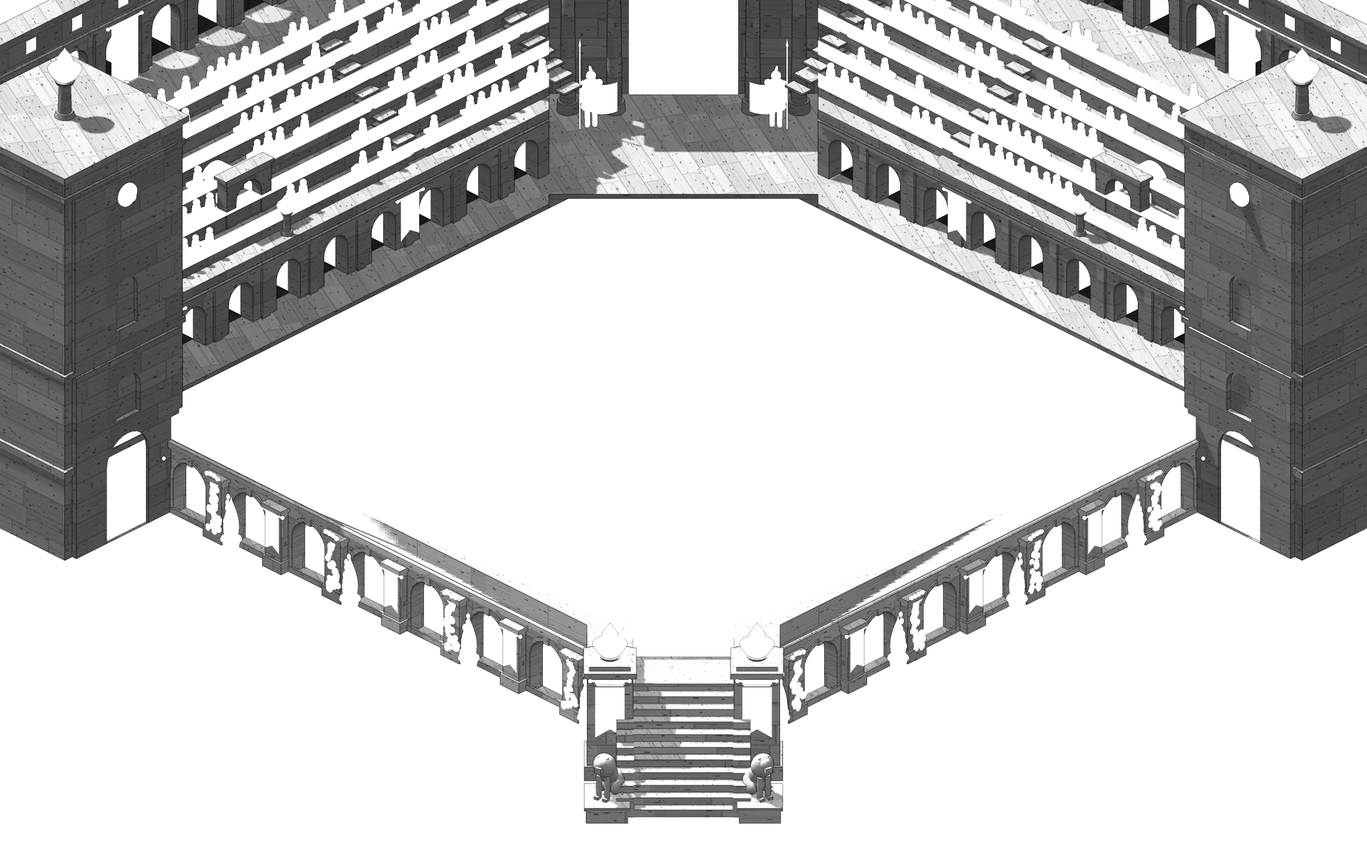
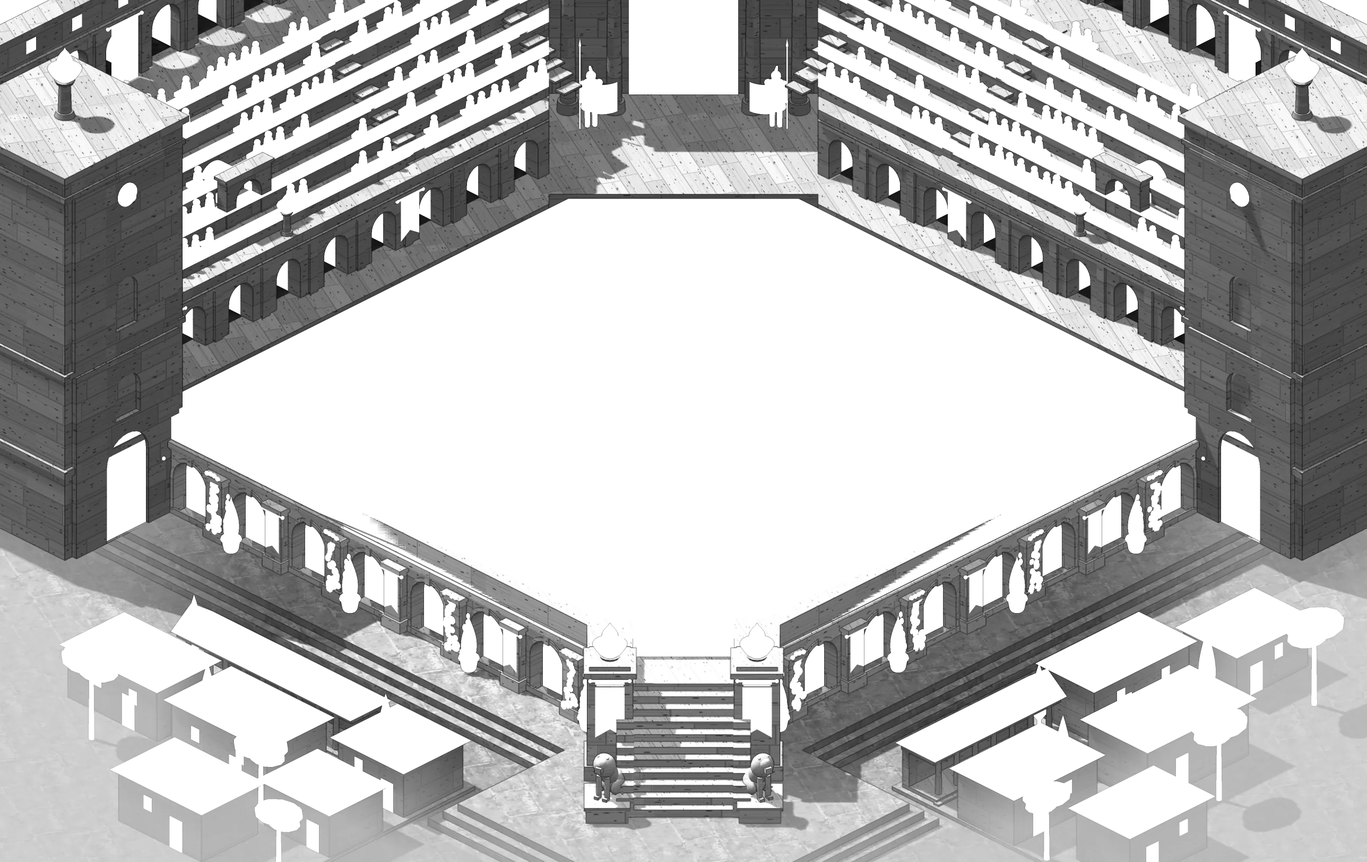
v1.11 Amphitheatre pass 8 MOCK-UP: bottom corners (a) city / (c) ground behind make.js --variant, 2a stair pools; assets = (a) [skip ci]
Claude-Session: https://claude.ai/code/session_01BLtNGuDrMd265uhsDUPs5S

Changed region(s): [[0.0, 0.585, 1.0, 1.0]]

diff --git a/tools/art/amph111/amph111.html b/tools/art/amph111/amph111.html
@@ -42,7 +42,27 @@
     const base = '../../../';
     const [stone, wood, brick, paving] = await Promise.all([base + 'assets/stone100_6_roma.webp', base + 'assets/stands_wood81.webp', '../arena110/vault_brick.webp', '../arena110/ground_paving.webp'].map(load));
     const tx = (cv, rep) => { const t = new THREE.CanvasTexture(cv); t.wrapS = t.wrapT = THREE.RepeatWrapping; t.colorSpace = THREE.SRGBColorSpace; t.anisotropy = 4; return t; };
-    const TEX = { stone: tx(texCanvas(stone, 'lum', 0.8, 1.1)), bench: tx(texCanvas(stone, 'lum', 0.3, 1.15)), wood: tx(texCanvas(wood)), brick: tx(texCanvas(brick)), paving: tx(texCanvas(paving)), paveL: tx(texCanvas(paving, 'lum', 0.55, 0.97)), eagle: tx(eagleCanvas()) };
+    const roofC = document.createElement('canvas'); roofC.width = roofC.height = 128; { const g = roofC.getContext('2d'); g.fillStyle = '#a9a9a9'; g.fillRect(0, 0, 128, 128);
+      /* pass 8: terracotta tile courses (luminance; the roof colour is the material's) */
+      for (let r = 0; r < 8; r++) for (let c = 0; c < 8; c++) { const v = 150 + ((r * 37 + c * 61) % 7) * 9; g.fillStyle = `rgb(${v},${v},${v})`; g.fillRect(c * 16 + (r % 2) * 8, r * 16, 14, 13); g.fillStyle = 'rgba(0,0,0,.18)'; g.fillRect(c * 16 + (r % 2) * 8, r * 16 + 12, 14, 3); } }
+    const TEX = { roof: null, stone: tx(texCanvas(stone, 'lum', 0.8, 1.1)), bench: tx(texCanvas(stone, 'lum', 0.3, 1.15)), wood: tx(texCanvas(wood)), brick: tx(texCanvas(brick)), paving: tx(texCanvas(paving)), paveL: tx(texCanvas(paving, 'lum', 0.55, 0.97)), eagle: tx(eagleCanvas()) };
+    TEX.roof = tx(roofC); TEX.paveS = tx(texCanvas(paving, 'lum', 0.32, 1.0));   /* pass 8: a calmer paving (lower contrast) */
+    /* PASS 8 HAZE (scene.js 'city' / 'ground'): the ground + city materials fade toward a haze colour with the distance out from the near
+       façade (world max(X, Z) − E1) and toward the canvas' left/right edges (|X − Z| / 2 in TW). One function for the colour (here) and the
+       ink (the normal pass writes 1 − haze into alpha; the post pass scales the ink by it). Per layer: the stone-layer haze is a luminance
+       (tinted per arena in the game), the fixed layer's a colour; the glow layer fades to black. */
+    const V8 = cfg.variant || 'p7';
+    const HZ = V8 === 'ground' ? { a: 0.95, h0: 1.0, h1: 7.0, b: 0.8, c: 0.3, m: 0.95, ls: 0.24, fx: '#3a2c20' } : { a: 0.5, h0: 2.5, h1: 9.0, b: 0.5, c: 0.5, m: 0.82, ls: 0.8, fx: '#c0b7a6' };
+    const HZF = `float hz8(vec3 w){ float dz = max(w.x, w.z) - 15.45; float sx = abs(w.x - w.z) * 0.5;   /* sx, and below sy: the point's place on the canvas in TW from (OX, OY) */
+      return clamp(${HZ.a.toFixed(3)} * smoothstep(${HZ.h0.toFixed(2)}, ${HZ.h1.toFixed(2)}, dz) + ${HZ.b.toFixed(3)} * smoothstep(6.4, 10.0, sx) + ${HZ.c.toFixed(3)} * smoothstep(8.4, 11.2, (w.x + w.z) * 0.25 - 0.612 * w.y), 0.0, ${HZ.m.toFixed(3)}); }`;
+    const HU = { stone: { value: new THREE.Color(HZ.ls, HZ.ls, HZ.ls) }, fixed: { value: new THREE.Color(HZ.fx) } };
+    const HZC = { stone: new THREE.Color(HZ.ls, HZ.ls, HZ.ls), fixed: new THREE.Color(HZ.fx) };
+    const hz = (m, layer) => { const u = HU[m.layer] || HU.fixed; m.mat.side = THREE.DoubleSide; m.mat.onBeforeCompile = sh => { sh.uniforms.hzCol = u;
+        sh.vertexShader = 'varying vec3 vW8;\n' + sh.vertexShader.replace('#include <project_vertex>', '#include <project_vertex>\n vW8 = (modelMatrix * vec4(transformed, 1.0)).xyz;');
+        sh.fragmentShader = 'varying vec3 vW8; uniform vec3 hzCol;\n' + HZF + '\n' + sh.fragmentShader.replace('#include <dithering_fragment>', 'gl_FragColor.rgb = mix(gl_FragColor.rgb, hzCol, hz8(vW8));\n#include <dithering_fragment>'); };
+      const ck = 'hz8_' + (hz.n = (hz.n || 0) + 1); m.mat.customProgramCacheKey = () => ck;   /* one program per material: onBeforeCompile (and its uniform) runs for each */ m.hz = 1; return m; };
+    const HNRM = new THREE.ShaderMaterial({ side: THREE.DoubleSide, vertexShader: 'varying vec3 vN; varying vec3 vW8; void main(){ vN = normalize(normalMatrix * normal); vW8 = (modelMatrix * vec4(position, 1.0)).xyz; gl_Position = projectionMatrix * modelViewMatrix * vec4(position, 1.0); }',
+      fragmentShader: 'varying vec3 vN; varying vec3 vW8;\n' + HZF + '\nvoid main(){ vec3 n = normalize(vN) * (gl_FrontFacing ? 1.0 : -1.0); gl_FragColor = vec4(n * 0.5 + 0.5, 1.0 - hz8(vW8)); }' });
     const S = THREE.DoubleSide;
     const std = (o, layer) => ({ mat: new THREE.MeshStandardMaterial(Object.assign({ roughness: 0.92, metalness: 0 }, o)), layer: layer || 'fixed' });
     const materials = () => ({
@@ -55,15 +75,24 @@
       brick: std({ map: TEX.brick, color: '#8c7a70', side: S }), dark: std({ color: '#3a2a1e', side: S, roughness: 1 }), ground: std({ map: TEX.paveL, color: '#9a938a' }, 'stone'), pave: std({ map: TEX.paveL, color: '#ffffff' }, 'stone'),
       crowd: std({ color: '#ffffff', roughness: 0.95 }), leaf: std({ color: '#3d5a2c' }), leafLt: std({ color: '#62813a' }), terra: std({ color: '#a65a3a' }), plaster: std({ color: '#ffffff' }, 'stone'),
       flame: { mat: new THREE.MeshBasicMaterial({ color: '#ff7a22' }), layer: 'fire' }, flameCore: { mat: new THREE.MeshBasicMaterial({ color: '#ffd977' }), layer: 'fire' },
-      hold: { mat: new THREE.MeshBasicMaterial({ color: '#000000' }), layer: 'hold' }
+      hold: { mat: new THREE.MeshBasicMaterial({ color: '#000000' }), layer: 'hold' },
+      /* pass 8: the ground + the city (hazed); 'win' = the lit windows, only in the glow layer */
+      gPave: hz(std({ map: TEX.paveS, color: V8 === 'ground' ? new THREE.Color(0.86, 0.86, 0.86) : new THREE.Color(1.12, 1.12, 1.12) }, 'stone')),
+      gStreet: hz(std({ map: TEX.paveS, color: V8 === 'ground' ? new THREE.Color(0.7, 0.7, 0.7) : new THREE.Color(0.95, 0.95, 0.95) }, 'stone')),
+      cWall: hz(std({ map: TEX.stone, color: new THREE.Color(0.92, 0.92, 0.92) }, 'stone')),
+      cRoof: hz(std({ map: TEX.roof, color: '#a07462' })), cDark: hz(std({ color: '#5a4636', roughness: 1 })), cTrunk: hz(std({ color: '#6a5442' })),
+      cLeaf: hz(std({ color: '#3f5038' })), cLeafLt: hz(std({ color: '#566a45' })),
+      win: { mat: new THREE.MeshBasicMaterial({ color: '#ffb466' }), layer: 'night' }
     });
-    const built = window.AMPH111_BUILD(THREE, TEX, { materials });
+    let MATS = null;
+    const built = window.AMPH111_BUILD(THREE, TEX, { materials: (...a) => (MATS = materials(...a)), variant: V8 });
     const scene = built.scene;
     const renderer = new THREE.WebGLRenderer({ antialias: false, alpha: true, premultipliedAlpha: false, preserveDrawingBuffer: true });
     renderer.shadowMap.enabled = true; renderer.shadowMap.type = THREE.PCFSoftShadowMap; renderer.outputColorSpace = THREE.SRGBColorSpace;
     renderer.setClearColor(0x000000, 0);
     document.body.appendChild(renderer.domElement); renderer.domElement.style.width = '50%';
-    R = { renderer, scene, meta: built.meta, TEX };
+    scene.traverse(o => { if (o.isMesh && MATS[o.name] && MATS[o.name].hz) o.userData.nmat = HNRM; });
+    R = { renderer, scene, meta: built.meta, TEX, HU, HZC };
     return R;
   }
   /* ---------- lights ---------- */
@@ -81,7 +110,9 @@
     } else {
       /* night = only the fires (the game's grade darkens the base; this layer is ADDED after it) */
       for (const b of R.meta.lamps || []) { const p = new THREE.PointLight('#ff9a48', (L.fire || 9) * 0.45, 2.8, 1.4); p.position.set(b.x, b.y, b.z); R.scene.add(p); }
-      for (const f of R.meta.fires) { const p = new THREE.PointLight(L.fireCol || '#ff9a48', (L.fire || 9) * f.s, 7.5 * f.s, 1.6); p.position.set(f.x, f.y, f.z); p.castShadow = !!f.shadow; if (f.shadow) { p.shadow.mapSize.set(1024, 1024); p.shadow.bias = -0.002; p.shadow.camera.near = 0.05; } R.scene.add(p); }
+      for (const q of R.meta.pools || []) { const sp = new THREE.SpotLight(L.poolCol || '#ffa050', L.pool || 5.0, 3.4, 0.4, 1, 2); sp.position.set(q.x, q.y, q.z);
+        const tg = new THREE.Object3D(); tg.position.set(q.tx, q.ty, q.tz); tg.userData.isLightTarget = 1; R.scene.add(tg); sp.target = tg; R.scene.add(sp); }
+      for (const f of R.meta.fires) { if (!f.s) continue; const p = new THREE.PointLight(L.fireCol || '#ff9a48', (L.fire || 9) * f.s, 7.5 * f.s, 1.6); p.position.set(f.x, f.y, f.z); p.castShadow = !!f.shadow; if (f.shadow) { p.shadow.mapSize.set(1024, 1024); p.shadow.bias = -0.002; p.shadow.camera.near = 0.05; } R.scene.add(p); }
       R.scene.add(new THREE.AmbientLight('#000000', 0));
     }
   }
@@ -95,7 +126,7 @@
         e = max(e, smoothstep(nTh, nTh + 0.35, 1.0 - dot(n0, Nn(o))) * 0.7); }
       vec3 col = c.rgb;
       if (post > 0.0) { float l = dot(col, vec3(0.299,0.587,0.114)); float q = (floor(l * 6.0 + 0.5) / 6.0); col = mix(col, col * (q / max(l, 0.02)), post); }
-      col *= 1.0 - inkA * e;
+      col *= 1.0 - inkA * e * texture2D(tNrm, vUv).a;   /* pass 8: alpha = 1 − haze (1 everywhere else) */
       gl_FragColor = vec4(col, c.a); }`;
   async function render(cfg) {
     const R = await setup(cfg);
@@ -110,7 +141,7 @@
     /* normals + depth of the whole scene (ink) */
     const rtN = new THREE.WebGLRenderTarget(W, H, { depthTexture: new THREE.DepthTexture(W, H, THREE.FloatType) });
     const nm = new THREE.MeshNormalMaterial({ side: THREE.DoubleSide });
-    for (const m of meshes) m.material = nm;
+    for (const m of meshes) { m.material = m.userData.nmat || nm; m.visible = m.userData.layer !== 'night'; }
     r.setRenderTarget(rtN); r.setClearColor(0x808080, 1); r.clear(); r.render(R.scene, cam);
     const HOLD = new THREE.MeshBasicMaterial({ colorWrite: false });
     const BLACK = new THREE.MeshBasicMaterial({ color: 0 });
@@ -120,8 +151,9 @@
     const quad = new THREE.Mesh(new THREE.PlaneGeometry(2, 2), post); const qs = new THREE.Scene(); qs.add(quad); const qc = new THREE.Camera();
     const out = {};
     for (const layer of cfg.layers) {
+      R.HU.stone.value.copy(layer === 'glow' ? new THREE.Color(0, 0, 0) : R.HZC.stone); R.HU.fixed.value.copy(layer === 'glow' ? new THREE.Color(0, 0, 0) : R.HZC.fixed);
       for (const m of meshes) {
-        const L = m.userData.layer;
+        const L = m.userData.layer; m.visible = L !== 'night' || layer === 'glow';
         if (layer === 'front') m.material = m.userData.front ? (m.userData.white = m.userData.white || new THREE.MeshBasicMaterial({ color: 0xffffff, map: m.userData.mat.alphaTest ? m.userData.mat.map : null, alphaTest: m.userData.mat.alphaTest || 0, side: m.userData.mat.side })) : HOLD;
         else if (layer === 'glow') m.material = L === 'hold' ? BLACK : m.userData.mat;
         else if (layer === 'all') m.material = L === 'hold' ? HOLD : m.userData.mat;
@@ -135,7 +167,7 @@
       r.setRenderTarget(null); r.setClearColor(0x000000, 0); r.clear(); r.render(qs, qc);
       out[layer] = r.domElement.toDataURL('image/png');
     }
-    for (const m of meshes) m.material = m.userData.mat;
+    for (const m of meshes) { m.material = m.userData.mat; m.visible = true; }
     rtN.dispose(); rtC.dispose();
     return { out, W, H, meta: R.meta, tris: r.info.render.triangles };
   }

diff --git a/tools/art/amph111/scene.js b/tools/art/amph111/scene.js
@@ -19,6 +19,7 @@
    ===================================================================== */
 window.AMPH111_BUILD = function (THREE, TEX, opt) {
   opt = opt || {};
+  const VAR = opt.variant || 'p7';                           /* pass 8 mock-up: 'p7' (approved pass 7, reproducible) | 'city' (his 1a) | 'ground' (his fallback c) */
   const E0 = -2.45, E1 = 15.45, GX = 0.47, M = 6.5;          /* footprint (3-tier), the grand arenas' extra, the board's middle */
   const e0 = E0 - GX, e1 = E1 + GX, LH = (e1 - e0) / 2;      /* the grand outline: everything built outside it */
   const GROUND = -2.6;                                       /* the ground around the building (near side cut-away) */
@@ -307,6 +308,84 @@ window.AMPH111_BUILD = function (THREE, TEX, opt) {
     meta.towers = meta.towers || []; meta.towers.push({ c, top: H + 0.16, z: z0 + R * 0.4 });
   }
 
+  /* ================= PASS 8 (his 1a / fallback c): GROUND + A ROMAN CITY in the two bottom corners and below the stair ONLY (3a: the far
+     side stays as is). Paving at the façade's foot (a terrace, a wider plaza under the stair for the lions), three steps down to the street,
+     then (variant 'city') a sidewalk, a low portico, a few houses with terracotta hip roofs, cypresses and umbrella pines. Everything
+     here uses the HAZED materials (amph111.html hz8): it fades into a soft haze with the distance from the façade and toward the canvas
+     edges, and its ink lines fade with it, so it stays low contrast and the eye stays on the sand (VISUAL POLISH RULE). The few lit
+     windows are 'night' meshes: drawn only into the glow layer. ================= */
+  if (VAR !== 'p7') {
+    const a = E1 - 3, far = -40, TR = 1.4, CP = E1 - 2.6, CQ = E1 + 5.0, YS = GROUND - 0.6;   /* terrace depth; the plaza square under the stair */
+    const Lp = o => [[far, a], [a, a], [a, far], [E1 + TR + o, far], [E1 + TR + o, CP - o], [CQ + o, CP - o], [CQ + o, CQ + o], [CP - o, CQ + o], [CP - o, E1 + TR + o], [far, E1 + TR + o]];
+    prism(null, 'gPave', Lp(0), GROUND - 0.25, GROUND);
+    for (let k = 1; k <= 3; k++) prism(null, 'gPave', Lp(k * 0.25), GROUND - 0.25 - k * 0.2, GROUND - k * 0.2);
+    prism(null, 'gStreet', [[far, a], [a, a], [a, far], [70, far], [70, 70], [far, 70]], YS - 0.3, YS);
+    meta.ground = { TR, CP, CQ, YS };
+    if (VAR === 'city') {
+      /* in a near side's frame: x toward the bottom corner (mirrored on nearR), z outward (the façade is z −0.47), y up */
+      const bx = (F, s, key, x0, x1, y0, y1, z0, z1) => box(F, key, Math.min(s * x0, s * x1), Math.max(s * x0, s * x1), y0, y1, z0, z1);
+      const hip = (F, s, x0, x1, z0, z1, y, h) => { const o = 0.14, w = x1 - x0 + 2 * o, d = z1 - z0 + 2 * o, g = new THREE.ConeGeometry(Math.SQRT1_2, 1, 4, 1);
+        g.rotateY(Math.PI / 4); g.translate(0, 0.5, 0); put(g, 'cRoof', T(F, s * (x0 + x1) / 2, y, (z0 + z1) / 2, 0, w, h, d)); };
+      const gable = (F, s, x0, x1, z0, z1, y, h) => { const o = 0.12, g = new THREE.CylinderGeometry(1, 1, 1, 3, 1); g.rotateZ(Math.PI / 2); g.rotateX(-Math.PI / 2); g.translate(0, 0.5, 0);
+        put(g, 'cRoof', T(F, s * (x0 + x1) / 2, y, (z0 + z1) / 2, 0, x1 - x0 + 2 * o, h / 1.5, (z1 - z0 + 2 * o) / 2 / 0.866)); };
+      const cypress = (F, s, x, z, y, k) => { const H = 2.3 * k, prof = Array.from({ length: 12 }, (_, i) => { const t = i / 11; return new THREE.Vector2(i === 0 ? 0.03 : 0.27 * k * Math.pow(Math.sin(Math.PI * Math.min(1, 0.1 + t * 1.25)), 0.7) * (1 - 0.82 * t), H * t); });
+        put(new THREE.LatheGeometry(prof, 10), 'cLeaf', T(F, s * x, y + 0.15, z)); cyl(F, 'cTrunk', s * x, y, y + 0.2, z, 0.05, 0.05, 6); };
+      const pine = (F, s, x, z, y, k) => { const H = 2.2 * k; cyl(F, 'cTrunk', s * x, y, y + H, z, 0.07, 0.05, 7);
+        for (const [dx, dz, dy, r, key] of [[0, 0, 0, 0.8, 'cLeaf'], [0.42, 0.18, -0.1, 0.52, 'cLeaf'], [-0.38, -0.14, -0.06, 0.54, 'cLeaf'], [0.06, 0.04, 0.1, 0.55, 'cLeafLt']])
+          put(new THREE.SphereGeometry(1, 12, 7), key, T(F, s * (x + dx * k), y + H + dy * k, z + dz * k, 0, r * k, r * 0.3 * k, r * 0.85 * k)); };
+      const WIN = [];
+      const house = (F, s, x0, x1, z0, z1, h, rh, wins) => {
+        bx(F, s, 'cWall', x0, x1, YS + 0.1, YS + 0.1 + h, z0, z1);
+        bx(F, s, 'cWall', x0 - 0.05, x1 + 0.05, YS + 0.1 + h - 0.08, YS + 0.1 + h, z0 - 0.05, z1 + 0.05);   /* a thin eaves band */
+        hip(F, s, x0, x1, z0, z1, YS + 0.1 + h, rh);
+        for (const [wx, lit] of wins || []) { const y0 = YS + 0.1 + h * 0.5, y1 = y0 + 0.36;
+          bx(F, s, 'cDark', wx - 0.13, wx + 0.13, y0, y1, z1, z1 + 0.02);
+          if (lit) WIN.push([F, s, wx, y0, y1, z1]); }
+        /* a door on the outward face */
+        bx(F, s, 'cDark', (x0 + x1) / 2 + 0.35, (x0 + x1) / 2 + 0.75, YS + 0.1, YS + 0.1 + Math.min(0.9, h * 0.6), z1, z1 + 0.02);
+      };
+      const portico = (F, s, x0, x1, z0, z1, h) => {
+        bx(F, s, 'cWall', x0, x1, YS + 0.1, YS + 0.1 + h, z0, z0 + 0.22);                                 /* the back wall */
+        bx(F, s, 'cWall', x0, x1, YS + 0.1, YS + 0.2, z0, z1);                                             /* its floor (two steps) */
+        bx(F, s, 'cWall', x0 - 0.06, x1 + 0.06, YS + 0.1, YS + 0.15, z1 - 0.05, z1 + 0.12);
+        for (let x = x0 + 0.2; x <= x1 - 0.15; x += 0.62) cyl(F, 'cWall', s * x, YS + 0.2, YS + 0.1 + h - 0.12, z1 - 0.22, 0.08, 0.065, 10);
+        bx(F, s, 'cWall', x0 - 0.04, x1 + 0.04, YS + 0.1 + h - 0.14, YS + 0.1 + h + 0.02, z0, z1 - 0.06);  /* architrave */
+        gable(F, s, x0, x1, z0, z1 - 0.06, YS + 0.1 + h + 0.02, 0.5);
+      };
+      /* the two corners: nearL (s = 1) and nearR (s = −1, mirrored, a different arrangement). Only a small triangle of each corner is on a
+         canvas (±7.6 TW wide at 1440, its bottom 10.65 TW below OY tall / 8.6 short): x − z ≥ −5.8 and x + z ≤ 12.3 at street level, and
+         the plaza under the stair starts at x 5.6 — so the few buildings sit right by the plaza and the street; tops of the nearer ones
+         rise into the short framing too. */
+      for (const [side, s] of [['nearL', 1], ['nearR', -1]]) {
+        const F = SIDES[side];
+        /* the sidewalk the blocks stand on (a kerb toward the street) */
+        bx(F, s, 'gPave', -18, 5.45, YS - 0.2, YS + 0.1, 3.05, 16);
+        if (s > 0) {
+          portico(F, s, -3.2, 2.6, 3.25, 4.45, 1.25);
+          house(F, s, 3.1, 5.3, 3.3, 5.3, 1.3, 0.65, [[3.8, 1]]);
+          house(F, s, -0.6, 2.6, 5.2, 7.2, 1.6, 0.75, [[0.2, 0], [1.7, 1]]);
+          house(F, s, 3.2, 5.4, 6.1, 7.9, 1.25, 0.6, [[4.3, 0]]);
+          house(F, s, -4.4, -1.4, 5.0, 6.9, 1.45, 0.7, [[-3.4, 0], [-2.2, 0]]);
+          house(F, s, 0.6, 3.4, 8.3, 10.2, 1.4, 0.7, [[1.6, 0]]);
+          cypress(F, s, 2.85, 3.45, YS + 0.1, 0.9); cypress(F, s, -3.6, 3.45, YS + 0.1, 0.95); cypress(F, s, -1.0, 5.6, YS + 0.1, 1.0);
+          pine(F, s, 2.9, 7.7, YS + 0.1, 0.9); pine(F, s, -2.6, 7.9, YS + 0.1, 1.0); pine(F, s, 5.2, 9.4, YS + 0.1, 0.8);
+        } else {
+          house(F, s, -2.6, 0.6, 3.3, 5.0, 1.5, 0.7, [[-1.8, 0], [-0.3, 1]]);
+          portico(F, s, 1.1, 5.3, 3.25, 4.4, 1.2);
+          house(F, s, 2.6, 5.4, 5.2, 7.1, 1.35, 0.65, [[3.6, 1]]);
+          house(F, s, -1.6, 1.8, 6.0, 8.0, 1.55, 0.75, [[-0.7, 0]]);
+          house(F, s, -5.6, -3.2, 4.2, 6.0, 1.3, 0.65, [[-4.6, 0]]);
+          house(F, s, 2.2, 4.8, 8.6, 10.4, 1.4, 0.7, [[3.0, 1]]);
+          cypress(F, s, 0.95, 3.5, YS + 0.1, 0.95); cypress(F, s, 2.1, 5.45, YS + 0.1, 0.85); cypress(F, s, -2.9, 5.3, YS + 0.1, 1.0);
+          pine(F, s, 0.4, 9.0, YS + 0.1, 0.95); pine(F, s, 5.3, 8.1, YS + 0.1, 0.8); pine(F, s, -4.4, 7.4, YS + 0.1, 1.0);
+        }
+      }
+      /* the handful of warm windows (night only) */
+      for (const [F, s, wx, y0, y1, z1] of WIN) box(F, 'win', s * wx - 0.11, s * wx + 0.11, y0 + 0.03, y1 - 0.03, z1 + 0.025, z1 + 0.035);
+      meta.windows = WIN.length;
+    }
+  }
+
   /* ================= BUILD the merged meshes ================= */
   const MAT = opt.materials(THREE, TEX);
   for (const k of Object.keys(BK)) {
@@ -336,7 +415,11 @@ window.AMPH111_BUILD = function (THREE, TEX, opt) {
   for (const pl of meta.pillars) front(() => P.banner(DB, pl.x, 0.12, pl.front + 0.01, 0.7, 1.55));
   /* braziers (a few, at key points): the landing (2), the tower tops, the two vomitoria on the far sides */
   meta.fires = [];
-  for (const pl of meta.pillars) meta.fires.push(front(() => P.brazier(DB, pl.x, pl.top - 0.75 * 1.25, pl.z, 1.25, { gold: 1, core: 1.45, light: 0.75, lift: -0.6, dz: 1.0, shadow: 1 }), 1));   /* the stem sinks into the pillar: a wide bowl on its top */   /* pass 7 (his 2a): the two big braziers on the stair's pillars */
+  for (const pl of meta.pillars) meta.fires.push(front(() => P.brazier(DB, pl.x, pl.top - 0.75 * 1.25, pl.z, 1.25, { gold: 1, core: 1.45, light: VAR === 'p7' ? 0.75 : 0, lift: -0.6, dz: 1.0, shadow: 1 }), 1));
+  /* pass 8 (his 2a): instead of the pillar lights, two small warm pools on the stair's top steps (spot lights straight down, no shadow):
+     about a third of pass 7's light there, gone before the lions, nothing on the façade */
+  meta.pools = [];
+  if (VAR !== 'p7') for (const sx of [-1, 1]) { const p = V3(sx * 0.55, 1.1, -0.5).applyMatrix4(DB), t = V3(sx * 0.55, -0.8, -0.15).applyMatrix4(DB); meta.pools.push({ x: p.x, y: p.y, z: p.z, tx: t.x, ty: t.y, tz: t.z }); }   /* the stem sinks into the pillar: a wide bowl on its top */   /* pass 7 (his 2a): the two big braziers on the stair's pillars */
   for (const side of ['farL', 'farR']) { const s = side === 'farR' ? 1 : -1; meta.fires.push(P.brazier(SIDES[side], -s * UEND + s * (0.9 + 1.6 * 4), Y_POD + 0.28, V_POD + 0.06, 0.75)); }
   for (const t of meta.towers) meta.fires.push(P.brazier(DIAG[t.c], 0, t.top, t.z, 1.25));
   /* the crowd on the far rows (baked, static) */

diff --git a/tools/art/amph111/make.js b/tools/art/amph111/make.js
@@ -5,6 +5,8 @@
    the game's (OX, OY) and one tile = TW. Rendered at 2× (cfg ss) with no MSAA, then box-filtered down → every layer's alpha is its exact
    coverage, so the layers ADD back together ('lighter') without seams.
      node tools/art/amph111/make.js [--out DIR] [--tw 112] [--pass N] [--overview 1.6] [--assets]
+     --variant p7 | city | ground   (pass 8 mock-up: p7 = the approved pass 7, the default; city = his 1a ground + Roman city in the bottom
+       corners + the 2a stair pools; ground = his fallback c, paving fading into a dark haze, + the 2a pools)
    Writes DIR/<layer>.png (stone, bench, cloth — luminance, tinted per arena in the game — fixed, fire, glow (night, opaque black)) and
    DIR/meta.json (TW0, the frame in TW: xl xr yt yb, sizes). --assets also encodes assets/amph111_<layer>.webp + assets/amph111.json.
    The frame (in TW, around the game's OX/OY): xl = xr = 11.5, yt = 3.6, yb = 10.9 — the canvas never shows more (07-ui draw: OY = 2.7 TW,
@@ -32,7 +34,7 @@ const PORT = 20000 + Math.floor(Math.random() * 20000);
     for (const night of [false, true]) {
       const ls = LAYERS.filter(l => (l === 'glow') === night); if (!ls.length) continue;
       const r = await pg.evaluate(cfg => window.AMPH111.render(cfg).then(r => ({ out: r.out, W: r.W, H: r.H, meta: r.meta, tris: r.tris })),
-        Object.assign({ tw0: TW0, ss: SS, layers: ls, night, look: LOOK, overview: OVER || 0, inkA: +opt('ink', 0.55), post: +opt('post', 0) }, FR));
+        Object.assign({ tw0: TW0, ss: SS, layers: ls, night, look: LOOK, variant: opt('variant', 'p7'), overview: OVER || 0, inkA: +opt('ink', 0.55), post: +opt('post', 0) }, FR));
       for (const k of Object.keys(r.out)) { fs.writeFileSync(path.join(OUT, k + '_ss.png'), Buffer.from(r.out[k].split(',')[1], 'base64')); }
       Object.assign(res, { W: r.W, H: r.H, meta: r.meta, tris: r.tris });
     }

diff --git a/tools/art/amph111/props.js b/tools/art/amph111/props.js
@@ -122,7 +122,7 @@ window.AMPH111_PROPS = function (THREE, MAT, add, T, rnd) {
     const tongue = (h, r) => new THREE.LatheGeometry(Array.from({ length: 11 }, (_, i) => { const t = i / 10; return new THREE.Vector2(r * Math.pow(Math.sin(Math.PI * Math.min(1, t * 1.35)), 0.7) * Math.pow(1 - t, 0.55) + (t === 0 ? 0 : 0), h * t); }), 10);
     for (const [dx, dz, h, r, k, tz] of [[0, 0, 0.62, 0.2, 'flame', 0], [0.1, 0.04, 0.4, 0.12, 'flame', 0.25], [-0.1, -0.02, 0.44, 0.13, 'flame', -0.2], [0, 0.07, 0.36 * (o.core || 1), 0.12 * (o.core || 1), 'flameCore', 0]])
       add(tongue(h * s, r * s), k, M4(F, x + dx * s, fy - 0.03 * s, z + dz * s, 0, 1, 1, 1, 0, tz), 'fire');
-    const p = V3(x, fy + 0.22 * s + (o.lift || 0), z + (o.dz || 0)).applyMatrix4(F); return { x: p.x, y: p.y, z: p.z, s: s * (o.light || 1), shadow: !!o.shadow };
+    const p = V3(x, fy + 0.22 * s + (o.lift || 0), z + (o.dz || 0)).applyMatrix4(F); return { x: p.x, y: p.y, z: p.z, s: s * (o.light == null ? 1 : o.light), shadow: !!o.shadow };
   };
   /* ---------- the static crowd on the far rows ---------- */
   out.crowd = (rows, LH, UEND) => {

diff --git a/tools/plans/v111/AMPH.md b/tools/plans/v111/AMPH.md
@@ -128,6 +128,48 @@ below the board for the whole stair when the window is tall enough (phones / sho
 - Sizes: 7 files 416 KB (stone 212, fixed 77, glow 50, bench 49, cloth 13, fire 11, front 4.5) — less than pass 6 (448 KB) though the
   frame grew to 2576×1624: the ground plane is gone.
 
+## Pass 8 — MOCK-UP: filling the bottom corners (his note on pass 7 + picks 1a 2a 3a; decisions 2026-10-22 "corners + glow")
+His note: "the glow of the stair is strong; the bottom right and left corners are really bland … looks odd empty floating / seeing night
+sky". Picks: 1a ground + a Roman city ONLY in the two bottom corners and below the stair (3a: above the far stands unchanged), MOCK-UP
+FIRST, with his fallback (c) ground only (+ a raised-view version) to compare; 2a two small warm pools on the stair's top steps at ~1/3.
+Built behind a VARIANT switch: `make.js --variant p7|city|ground` (scene.js opt.variant; default p7 — re-baked and compared: byte-identical
+to the committed pass 7 files). Raised view = (c) with 419's framing kill switch in a tall window (today's 724 px canvas): render-only.
+Review page: scratchpad amph111-review.html, new top section "Pass 8 mock-up: filling the bottom corners".
+
+### 8a — first build
+- Built ('city'): a paved terrace at the façade's foot (2.0 deep, a plaza square under the stair big enough for the lions), three steps
+  down to a street plane that covers everything below the near façades out to the canvas edges (no night sky can show); a sidewalk;
+  per corner a low portico, 4–6 houses (terracotta hip roofs with tile courses drawn in code, plaster walls in the stone layer so they take
+  each arena's colour), cypresses and umbrella pines; a handful of lit windows (5 in 8c) as glow-only meshes. HAZE (amph111.html hz8): the city + ground
+  materials mix toward a haze colour with the distance out from the façade and toward the canvas sides, and the ink lines fade by the same
+  factor (the normal pass writes 1 − haze into alpha; the post pass scales the ink with it). 'ground': the paving + steps + street only,
+  the haze dark. 2a: the two pillar lights (pass 7c) are off; two spot lights straight down on the top steps, no shadow.
+- Bug: the pillar lights stayed on (props.js `o.light || 1` turned 0 into 1) → `o.light == null ? 1 : o.light`.
+- Compared with pass 7 and his picture: the corners are no longer empty, but most of the city sat OFF the canvas — a 1440 window shows only
+  ±7.6 TW (canvas 970 px), not the bake's ±11.5; the visible corner is a small triangle (x − z ≥ −5.8, x + z ≤ 12.3 at street level in the
+  near frame). The pools were 1/5 of pass 7 (top steps 12 vs 63 in the glow layer).
+
+### 8b — the city moved into view, calmer paving, haze toward the bottom
+- Changed: the buildings regrouped right by the plaza and the street (each corner: a portico on the sidewalk, 5 houses, 3 cypresses, 3 pines;
+  in short windows only the nearest roofs show); terrace 1.4 deep, steps 0.25; a calmer paving texture (luminance contrast ×0.32 instead of
+  0.55: the marbled veins read dark and busy); the haze also grows toward the canvas BOTTOM (sy 8.4 → 11.2 TW) so the city fades out at the
+  bottom edge; pools 5.0 aimed at the top steps → 21.5 vs pass 7's 63 (≈1/3), lower steps 0.2, lions 0, façade 0.
+- Compared: day reads as ground + a quiet town in a warm haze, lower contrast than the stands; night dark blue-grey with a handful of
+  windows; (c) a dark warm band round the stair. Left: umbrella pines read as khaki discs; on Syracusae the roofs' haze (warm) did not
+  match the cool walls/ground.
+
+### 8c — final mock-up
+- Changed: darker pine/cypress greens, smaller pine canopies; the fixed layer's haze colour more neutral (#c0b7a6) so it suits warm and cool
+  arenas.
+- Compared with pass 7 and his picture (tall 1440×1200 at 1× and 2×, 1440×900, day + night, Roma + Syracusae): the bottom corners are
+  paving → steps → street → a few roofs/portico/trees fading into haze; nothing floats, no night sky below the arena; the stair's light is
+  two small pools on the top steps, the lions and façade unlit. His picture's ground is a plain cream floor (no city) — (c) is closer to
+  that by layout, (a) is what he asked for now.
+- Sizes: (a) 488 KB (stone 272, fixed 98, glow 41, others as pass 7) vs pass 7 416; (c) 440 KB. Same frame (2576×1624): same memory and the
+  same one-off composite. Per frame: 0 by day (cached under layer); night glow blits 18 pieces / 35% of the frame for (a), 14 / 31% for (c),
+  15 / 33% for pass 7. Contrast read-back identical to pass 7 in every view.
+- assets/amph111_* now hold (a) (the preview is off by default); 419 is unchanged (same frame + front box).
+
 ## Method
 - Projection: an orthographic camera 30° down / 45° round = the game's 2:1 iso; world X/Z = the board's columns/rows (1 unit = 1 tile),
   so tile corner (0,0) is the game's (OX, OY) and K = TW/√2 px per view unit; heights: 1 unit = 0.612 TW. The frame is 11.5 TW either side

diff --git a/tools/art/amph111/SOURCES.md b/tools/art/amph111/SOURCES.md
@@ -15,6 +15,8 @@ kite_shield — all CC0) — none used.
 | crates, barrels | assets/stands_wood81.webp | the game's own bench wood (v0.81) | tinted #c79a66 |
 | vault + bay linings | tools/art/arena110/vault_brick.webp | Poly Haven "Medieval Red Brick" · Rob Tuytel · **CC0** · https://polyhaven.com/a/medieval_red_brick (prepared in v1.10a, see tools/art/arena110/SOURCES.md) | darkened #8c7a70 |
 | ground / plaza | tools/art/arena110/ground_paving.webp | Poly Haven "Stone Pavers" · Amal Kumar · **CC0** · https://polyhaven.com/a/stone_pavers (prepared in v1.10a) | darkened #6f665a, slabs ×1.5 larger |
+| pass 8 (variants city / ground): terrace, steps, street | tools/art/arena110/ground_paving.webp | as above | luminance, contrast ×0.32 (calmer), tinted with the arena's stone; hazed |
+| pass 8 city: roof tiles | drawn in code (amph111.html roofC) | — | tile courses, luminance, coloured #a07462 |
 | the eagle on the banners | drawn in code (amph111.html eagleCanvas) | — | gold eagle with spread wings in a laurel ring |
 
 Outputs: assets/amph111_{stone,bench,cloth,fixed,fire,glow}.webp + assets/amph111.json (the frame), written by make.js --assets (enc.py).
